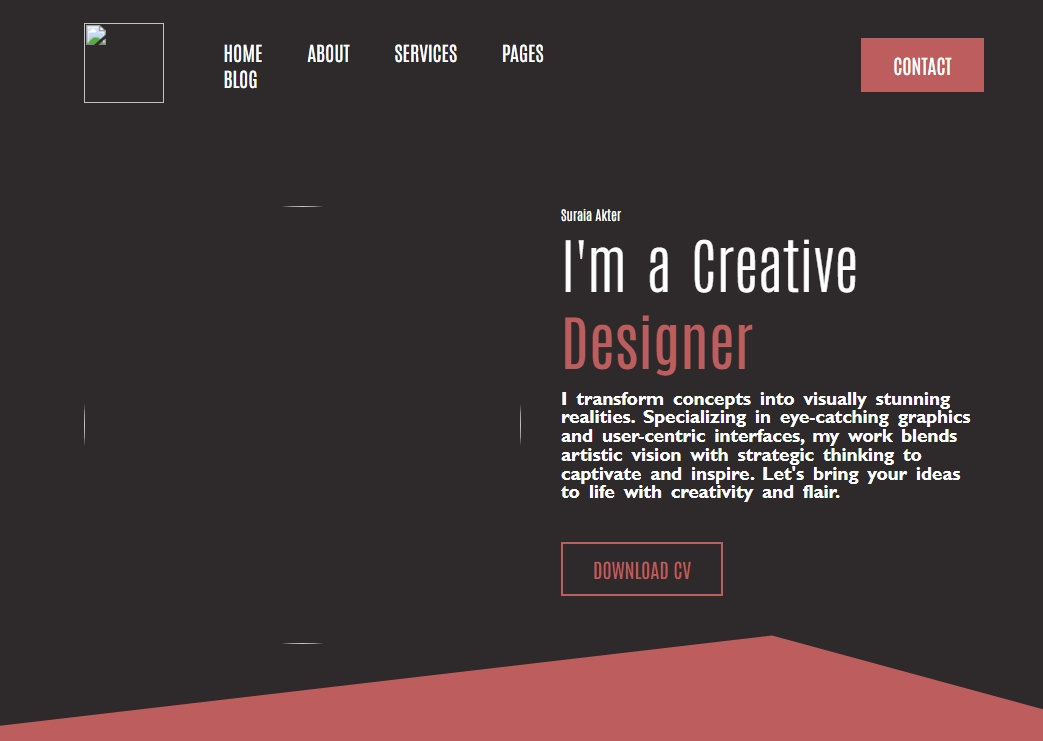
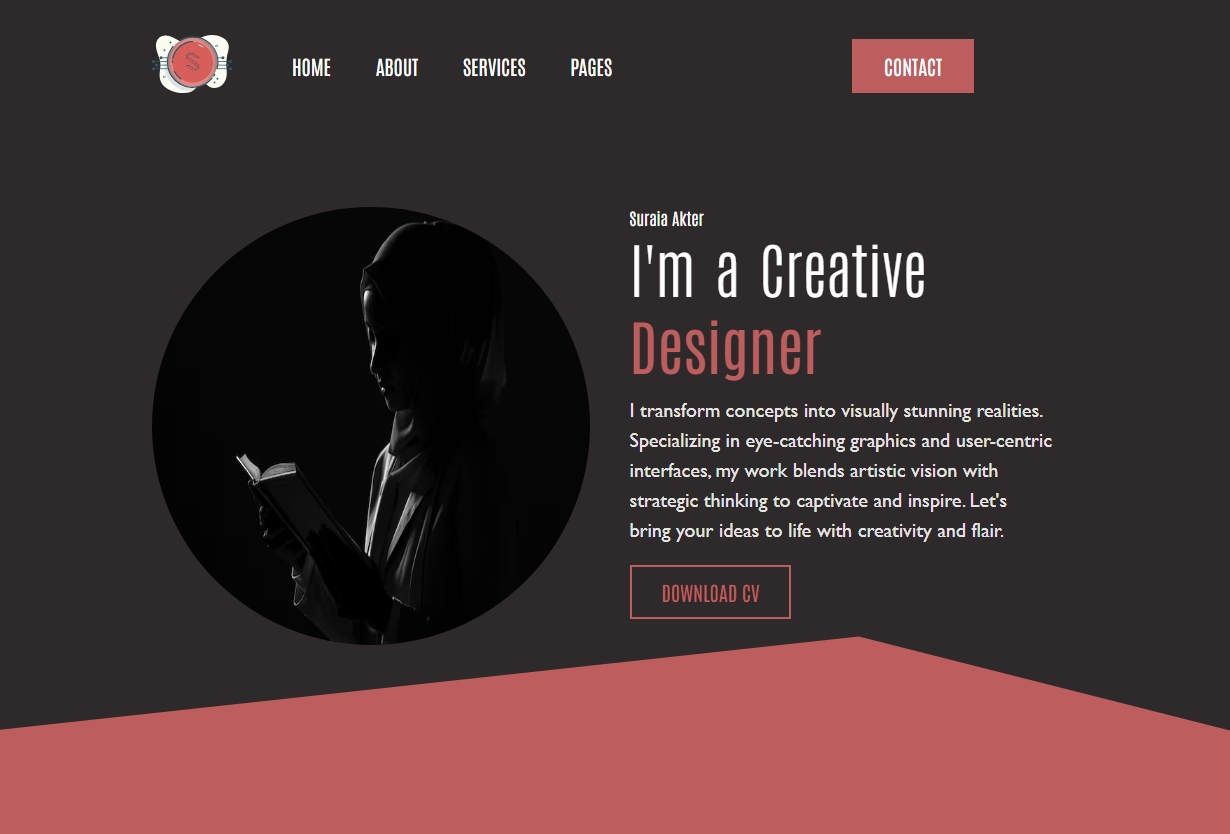
port

diff --git a/index.html b/index.html
@@ -6,9 +6,8 @@
     <script src="https://cdn.tailwindcss.com"></script>
     <style>
         @import url('https://fonts.googleapis.com/css2?family=Inter:ital,opsz,wght@0,14..32,100..900;1,14..32,100..900&family=Montagu+Slab:opsz,wght@16..144,100..700&display=swap');
-        </style>
-       
-    <title>Document</title>
+    </style>   
+    <title>Portfolio</title>
 </head>
 <body class="bg-black mx-10 py-5 space-y-5 ">
     <!-----------------------Header------------------------->
@@ -88,56 +87,56 @@
 <div class=" text-center grid grid-cols-2 sm:grid-cols-3 lg:grid-cols-4 gap-6">
     <!--S1-->
     <div class=" bg-gray-900 shadow-lg rounded-lg overflow-hidden transform hover:scale-105 transition duration-300">
-    <img class="px-20 py-4" src="images/Front-end DEV.png" alt="">
-    <h1 class="text-gray-300">Front-End Development</h1>
-    <p class="text-gray-500">Amet minim mollit non deserunt <br> ullamco est sit aliqua dolor do
-    amet sint. <br>Velit officia consequat duis <br> enim velit mollit.</p>
+    <div class="flex justify-center mt-4 "><img src="images/Front-end DEV.png" alt=""></div>
+    <div><h1 class="text-gray-300">Front-End Development</h1>
+        <p class="text-gray-500">Amet minim mollit non deserunt <br> ullamco est sit aliqua dolor do
+        amet sint. <br>Velit officia consequat duis <br> enim velit mollit.</p></div>
     </div>
     <!--S2-->
     <div class="bg-gray-900 shadow-lg rounded-lg overflow-hidden transform hover:scale-105 transition duration-300">
-    <img class="px-20 py-4" src="images/Back-end DEV.png" alt="">
-    <h1 class="text-gray-300">Back-End Development</h1>
-    <p class="text-gray-500">Amet minim mollit non deserunt <br> ullamco est sit aliqua dolor do
-    amet sint. <br>Velit officia consequat duis <br> enim velit mollit.</p>
+   <div class="flex justify-center mt-4 " > <img src="images/Back-end DEV.png" alt=""></div>
+    <div><h1 class="text-gray-300">Back-End Development</h1>
+        <p class="text-gray-500">Amet minim mollit non deserunt <br> ullamco est sit aliqua dolor do
+        amet sint. <br>Velit officia consequat duis <br> enim velit mollit.</p></div>
     </div>
     <!--S3-->
     <div class="bg-gray-900 shadow-lg rounded-lg overflow-hidden transform hover:scale-105 transition duration-300">
-    <img class="px-20 py-4" src="images/Full-Stack DEV.png" alt="">
-    <h1 class="text-gray-300">Full-Stack Development</h1>
-    <p class="text-gray-500">Amet minim mollit non deserunt <br> ullamco est sit aliqua dolor do
-    amet sint. <br>Velit officia consequat duis <br> enim velit mollit.</p>
+   <div class="flex justify-center mt-4 " > <img  src="images/Full-Stack DEV.png" alt=""></div>
+    <div><h1 class="text-gray-300">Full-Stack Development</h1>
+        <p class="text-gray-500">Amet minim mollit non deserunt <br> ullamco est sit aliqua dolor do
+        amet sint. <br>Velit officia consequat duis <br> enim velit mollit.</p></div>
     </div>
     <!--S4-->
     <div class="bg-gray-900 shadow-lg rounded-lg overflow-hidden transform hover:scale-105 transition duration-300">
-    <img class="px-20 py-4" src="images/Web App Security.png" alt="">
-    <h1 class="text-gray-300">Web-Application Security</h1>
+    <div class="flex justify-center mt-4 " ><img src="images/Web App Security.png" alt=""></div>
+   <div> <h1 class="text-gray-300">Web-Application Security</h1>
     <p class="text-gray-700">Amet minim mollit non deserunt <br> ullamco est sit aliqua dolor do
-     amet sint. <br>Velit officia consequat duis <br> enim velit mollit.</p>
+     amet sint. <br>Velit officia consequat duis <br> enim velit mollit.</p></div>
     </div>
 <!--S5-->
     <div class="bg-gray-900 shadow-lg rounded-lg overflow-hidden transform hover:scale-105 transition duration-300">
-    <img class="px-20 py-4" src="images/E-coommerce DEV.png" alt="">
-    <h1 class="text-gray-300">E-commerce Development</h1>
-    <p class="text-gray-700">Amet minim mollit non deserunt <br> ullamco est sit aliqua dolor do
-    amet sint. <br>Velit officia consequat duis <br> enim velit mollit.</p>
+   <div  class="flex justify-center mt-4 " > <img src="images/E-coommerce DEV.png" alt=""></div>
+    <div><h1 class="text-gray-300">E-commerce Development</h1>
+        <p class="text-gray-700">Amet minim mollit non deserunt <br> ullamco est sit aliqua dolor do
+        amet sint. <br>Velit officia consequat duis <br> enim velit mollit.</p></div>
     </div>
 <!--S6-->
 <div class="bg-gray-900 shadow-lg rounded-lg overflow-hidden transform hover:scale-105 transition duration-300">
-    <img class="px-20 py-4" src="images/Cloud-Based DEV.png" alt="">
-    <h1 class="text-gray-300">Cloud-Based Development</h1>
-    <p class="text-gray-700">Amet minim mollit non deserunt <br> ullamco est sit aliqua dolor do
-    amet sint. <br>Velit officia consequat duis <br> enim velit mollit.</p>
+    <div class="flex justify-center mt-4 "><img src="images/Cloud-Based DEV.png" alt=""></div>
+    <div><h1 class="text-gray-300">Cloud-Based Development</h1>
+        <p class="text-gray-700">Amet minim mollit non deserunt <br> ullamco est sit aliqua dolor do
+        amet sint. <br>Velit officia consequat duis <br> enim velit mollit.</p></div>
     </div>
 <!--S7-->
 <div class="bg-gray-900 shadow-lg rounded-lg overflow-hidden transform hover:scale-105 transition duration-300">
-    <img class="px-20 py-4" src="images/Progressive Web App.png" alt="">
-    <h1 class="text-gray-300">Progressive Web Apps</h1>
-    <p class="text-gray-700">Amet minim mollit non deserunt <br> ullamco est sit aliqua dolor do
-    amet sint. <br>Velit officia consequat duis <br> enim velit mollit.</p>
+   <div class="flex justify-center mt-4 "> <img src="images/Progressive Web App.png" alt=""></div>
+    <div><h1 class="text-gray-300">Progressive Web Apps</h1>
+        <p class="text-gray-700">Amet minim mollit non deserunt <br> ullamco est sit aliqua dolor do
+        amet sint. <br>Velit officia consequat duis <br> enim velit mollit.</p></div>
   </div>
  <!--S8-->
 <div class="bg-gray-900 shadow-lg rounded-lg overflow-hidden transform hover:scale-105 transition duration-300">
-    <img class="px-20 py-4" src="images/AI-Powered DEV.png" alt="">
+    <div class="flex justify-center mt-4 "><img src="images/AI-Powered DEV.png" alt=""></div>
     <h1 class="text-gray-300">AI-Powered Development</h1>
     <p class="text-gray-700">Amet minim mollit non deserunt <br> ullamco est sit aliqua dolor do
     amet sint. <br>Velit officia consequat duis <br> enim velit mollit.</p>
@@ -156,12 +155,12 @@
 <!--Recent works LIst--> 
 
 <div class="grid grid-cols-2 sm:grid-cols-3 lg:grid-cols-3 gap-6 ">
-    <img class=" rounded-2xl transform hover:scale-105 transition duration-100" src="images/GT1.jpg" alt="">
-    <img class=" rounded-2xl transform hover:scale-105 transition duration-100" src="images/GT2.jpg" alt="">
-    <img class=" rounded-2xl transform hover:scale-105 transition duration-100" src="images/GT3.jpg" alt="">
-    <img class=" rounded-2xl transform hover:scale-105 transition duration-100" src="images/ph.jpg" alt="">
     <img class=" rounded-2xl transform hover:scale-105 transition duration-100" src="images/WEB1.jpeg" alt="">
     <img class=" rounded-2xl transform hover:scale-105 transition duration-100" src="images/WEB2.jpeg" alt="">
+    <img class=" rounded-2xl transform hover:scale-105 transition duration-100" src="images/WEB3.jpeg" alt="">
+    <img class=" rounded-2xl transform hover:scale-105 transition duration-100" src="images/WEB4.jpeg" alt="">
+    <img class=" rounded-2xl transform hover:scale-105 transition duration-100" src="images/WEB5.jpeg" alt="">
+    <img class=" rounded-2xl transform hover:scale-105 transition duration-100" src="images/WEB6.jpeg" alt="">
 </div>
 </section>
   <!-----------------------Recent works End------------------------->
